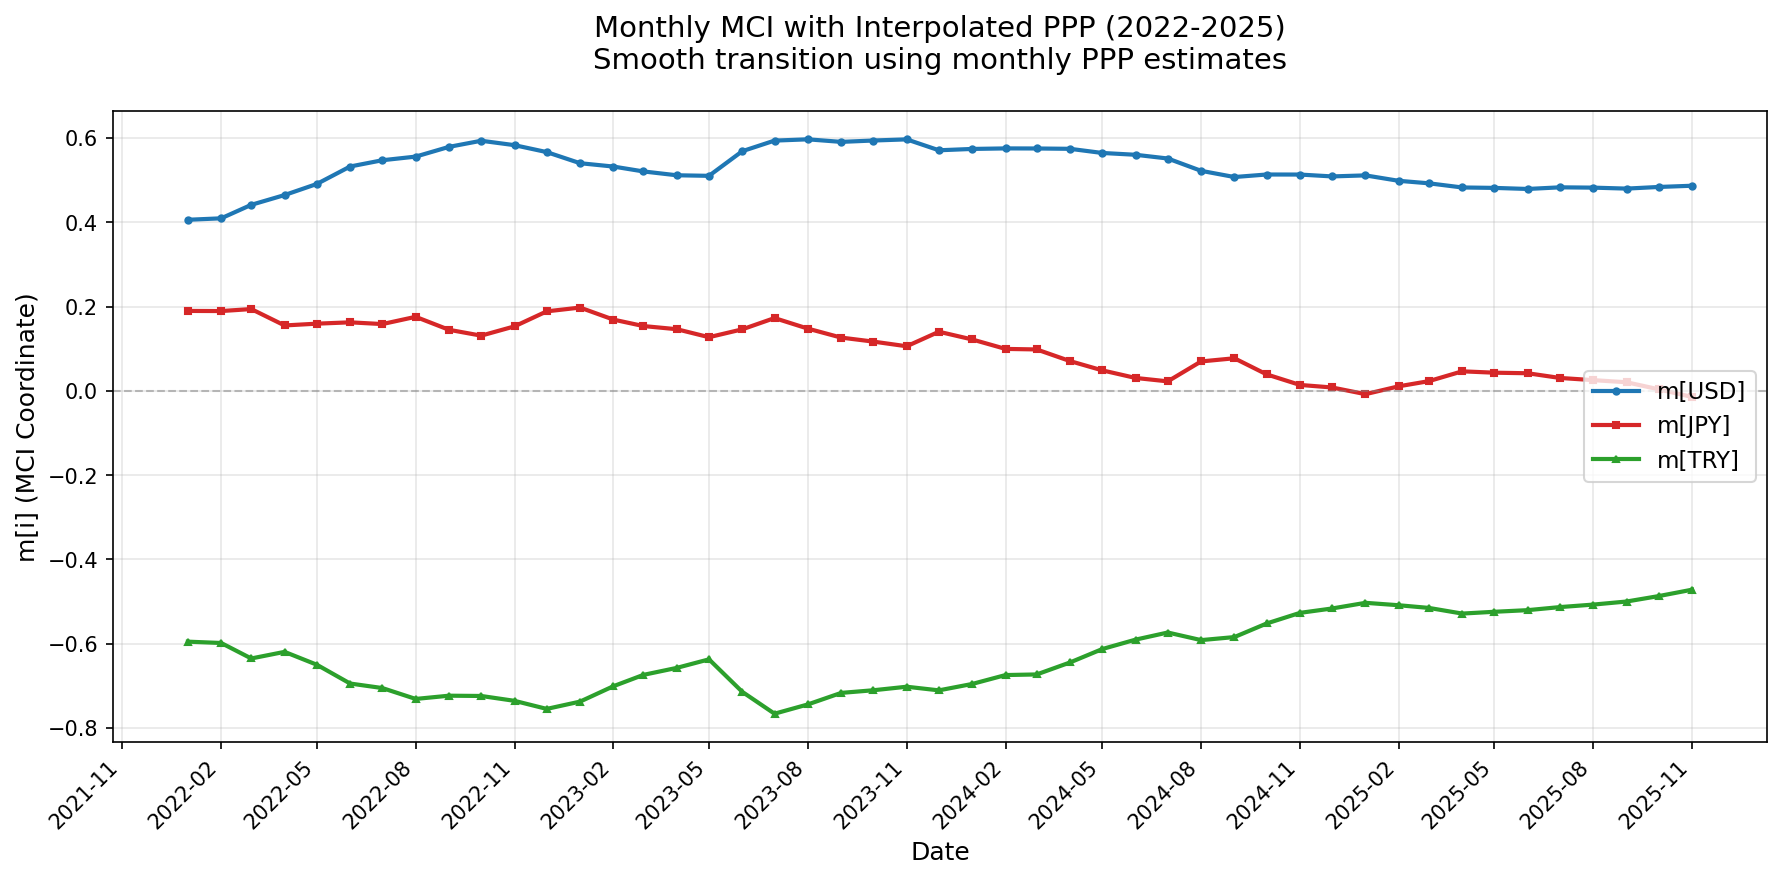
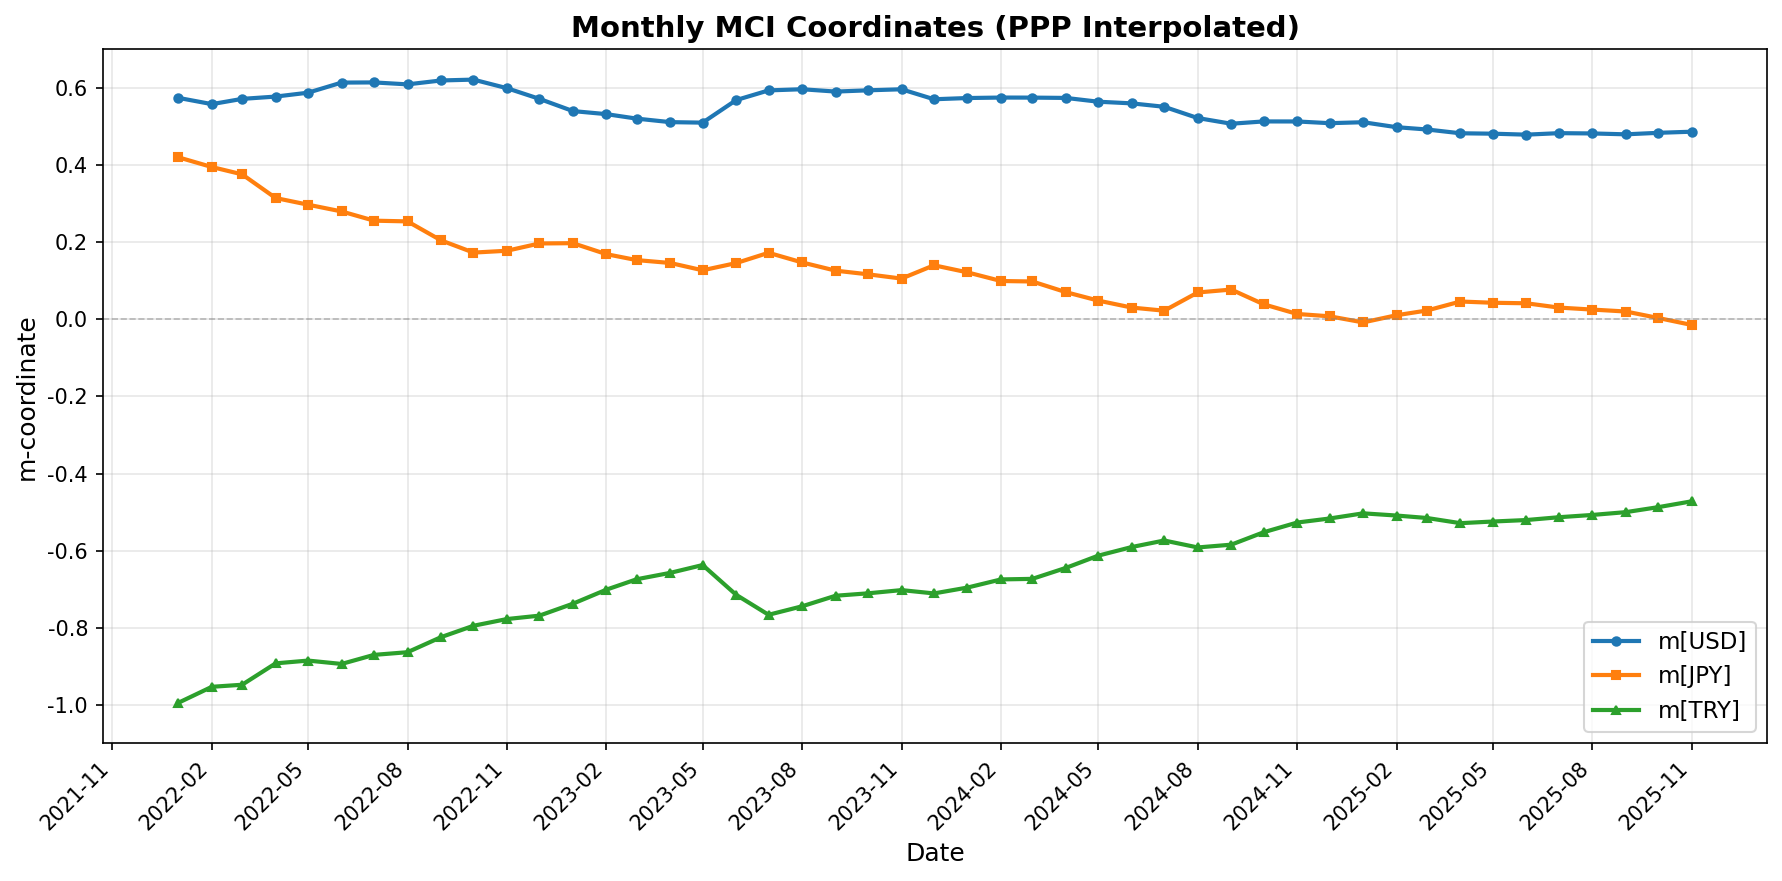
Regenerate monthly MCI plot with corrected 2022 data
- Used monthly_mci_complete_2022_2025.csv (v2.1, m-coordinates corrected)
- Updated monthly_mci_interpolated_ppp.png for CHAPTER8
- Added plot_monthly_interpolated.py for regeneration

Data range:
- m[USD]: 0.479 to 0.622
- m[JPY]: -0.015 to 0.420
- m[TRY]: -0.995 to -0.472

diff --git a/dataset/plot_monthly_interpolated.py b/dataset/plot_monthly_interpolated.py
@@ -1,0 +1,54 @@
+#!/usr/bin/env python3
+"""
+月次MCI グラフ生成（PPP線形補間版）
+
+monthly_mci_complete_2022_2025.csv（2022年m座標修正済み）を使用
+"""
+
+import pandas as pd
+import matplotlib.pyplot as plt
+import matplotlib.dates as mdates
+
+# フォント設定
+plt.rcParams['font.sans-serif'] = ['DejaVu Sans']
+plt.rcParams['axes.unicode_minus'] = False
+
+# データ読み込み
+df = pd.read_csv('monthly_mci_complete_2022_2025.csv')
+df['date'] = pd.to_datetime(df['date'])
+
+# プロット
+fig, ax = plt.subplots(figsize=(12, 6))
+
+ax.plot(df['date'], df['m_USD'], 'o-', label='m[USD]', linewidth=2, markersize=4, color='#1f77b4')
+ax.plot(df['date'], df['m_JPY'], 's-', label='m[JPY]', linewidth=2, markersize=4, color='#ff7f0e')
+ax.plot(df['date'], df['m_TRY'], '^-', label='m[TRY]', linewidth=2, markersize=4, color='#2ca02c')
+
+# ゼロライン
+ax.axhline(y=0, color='gray', linestyle='--', linewidth=0.8, alpha=0.5)
+
+# 軸設定
+ax.set_xlabel('Date', fontsize=12)
+ax.set_ylabel('m-coordinate', fontsize=12)
+ax.set_title('Monthly MCI Coordinates (PPP Interpolated)', fontsize=14, fontweight='bold')
+ax.legend(fontsize=11, loc='best')
+ax.grid(True, alpha=0.3)
+
+# 日付フォーマット
+ax.xaxis.set_major_formatter(mdates.DateFormatter('%Y-%m'))
+ax.xaxis.set_major_locator(mdates.MonthLocator(interval=3))
+plt.xticks(rotation=45, ha='right')
+
+# Y軸範囲調整
+ax.set_ylim(-1.1, 0.7)
+
+plt.tight_layout()
+plt.savefig('../docs/monthly_mci_interpolated_ppp.png', dpi=150, bbox_inches='tight')
+plt.close()
+
+print("Generated: docs/monthly_mci_interpolated_ppp.png")
+print(f"Data points: {len(df)}")
+print(f"Date range: {df['date'].min()} to {df['date'].max()}")
+print(f"m[USD] range: {df['m_USD'].min():.3f} to {df['m_USD'].max():.3f}")
+print(f"m[JPY] range: {df['m_JPY'].min():.3f} to {df['m_JPY'].max():.3f}")
+print(f"m[TRY] range: {df['m_TRY'].min():.3f} to {df['m_TRY'].max():.3f}")
